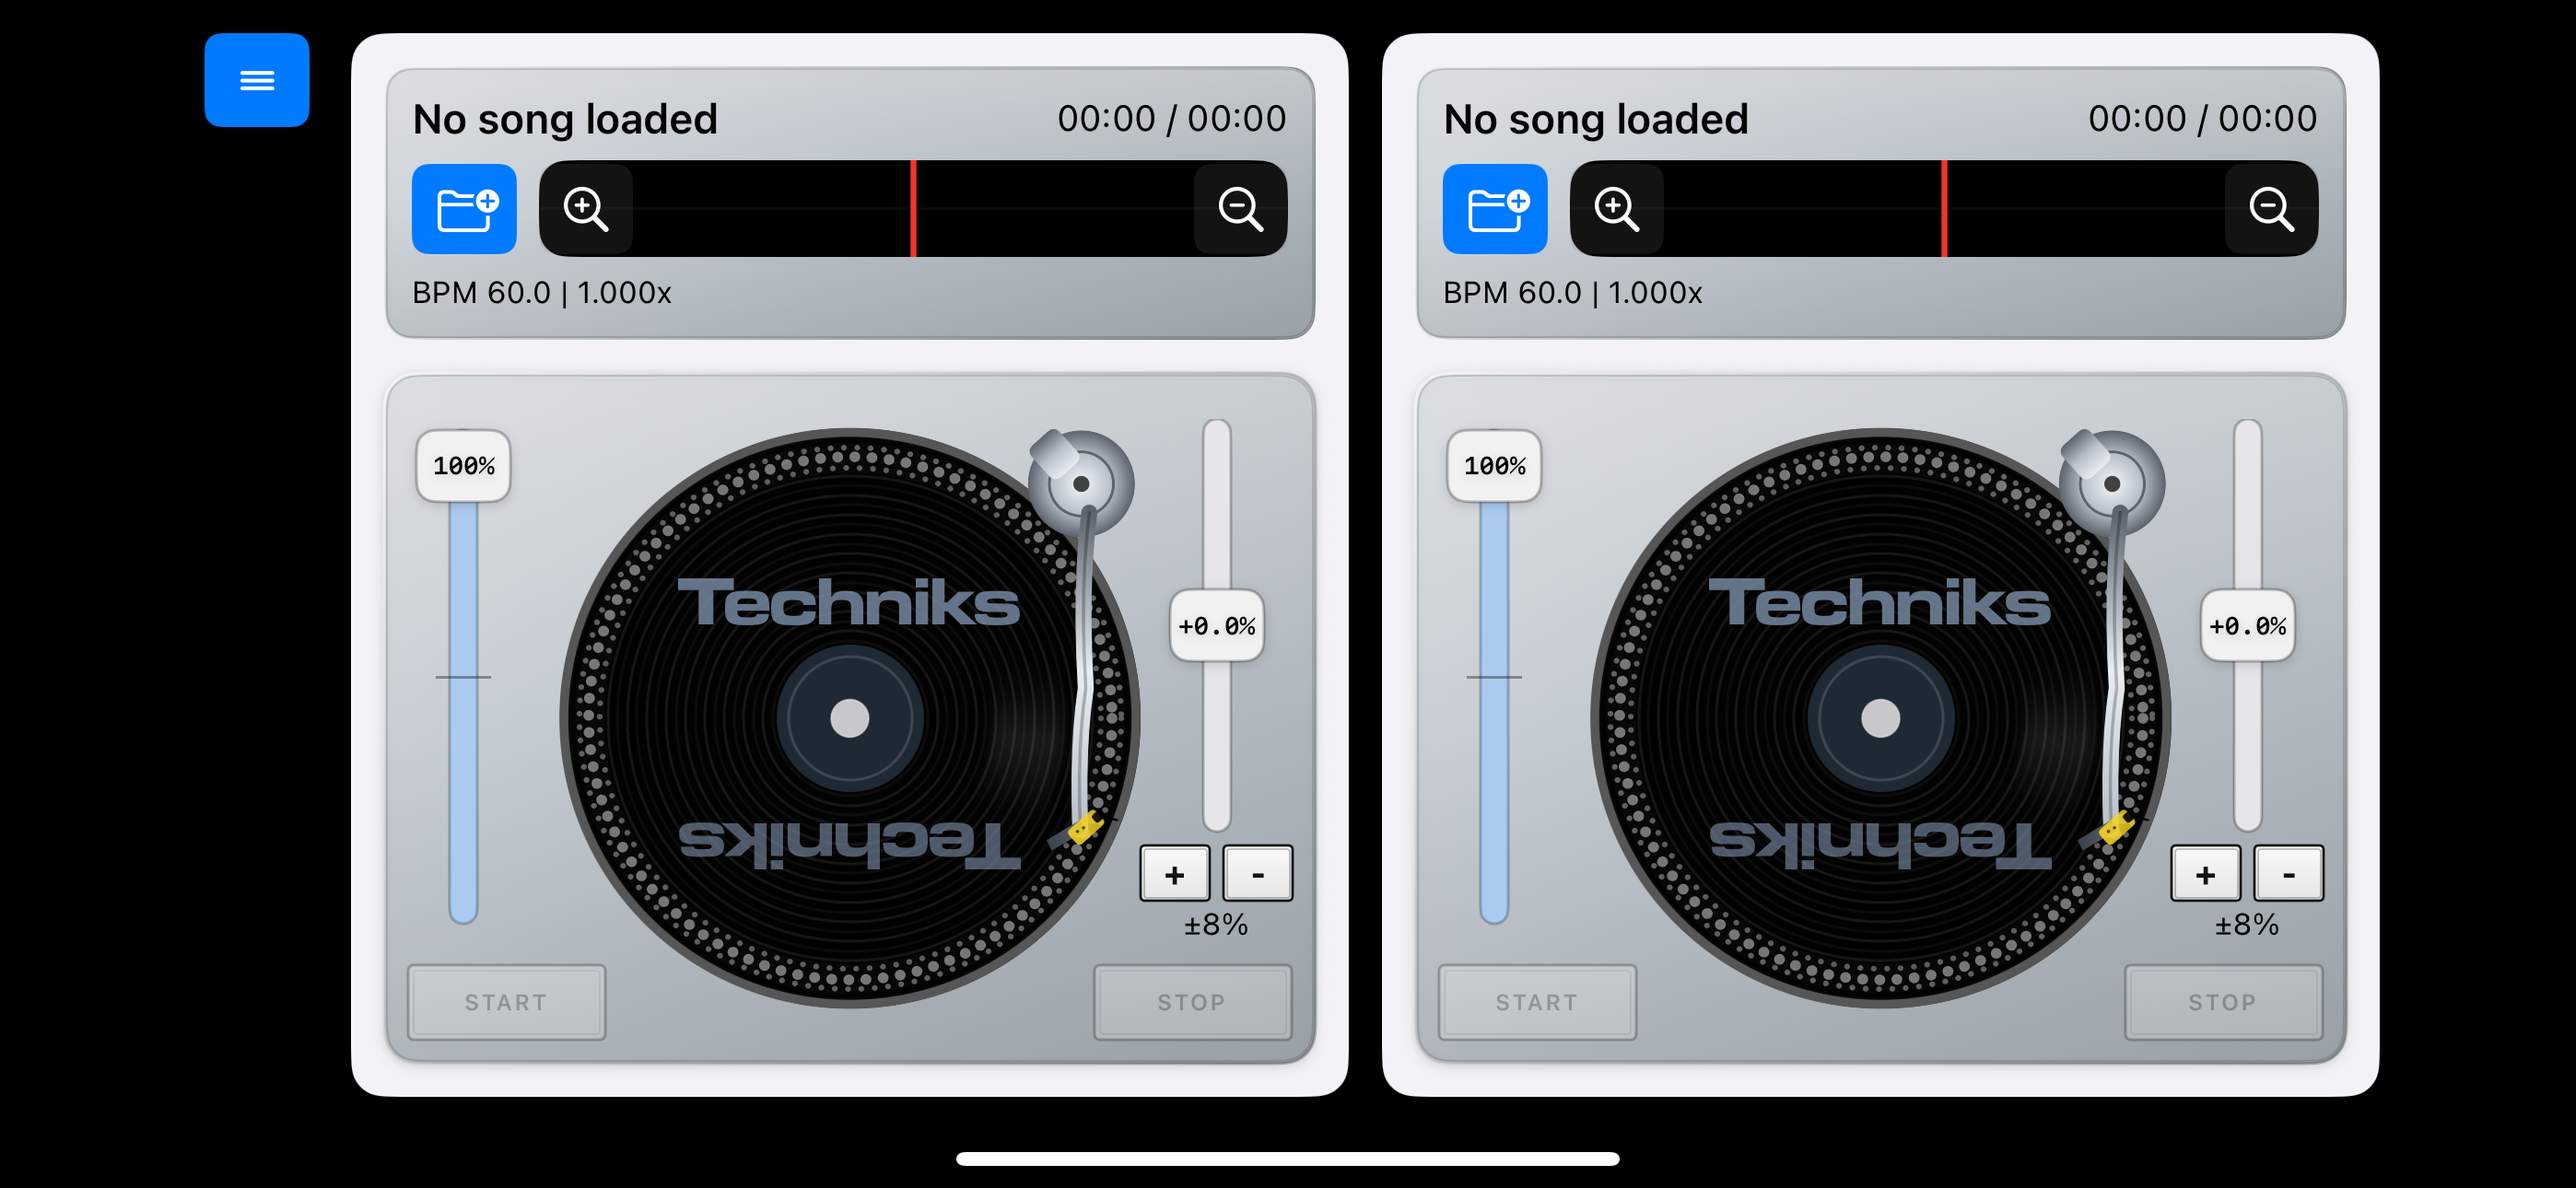
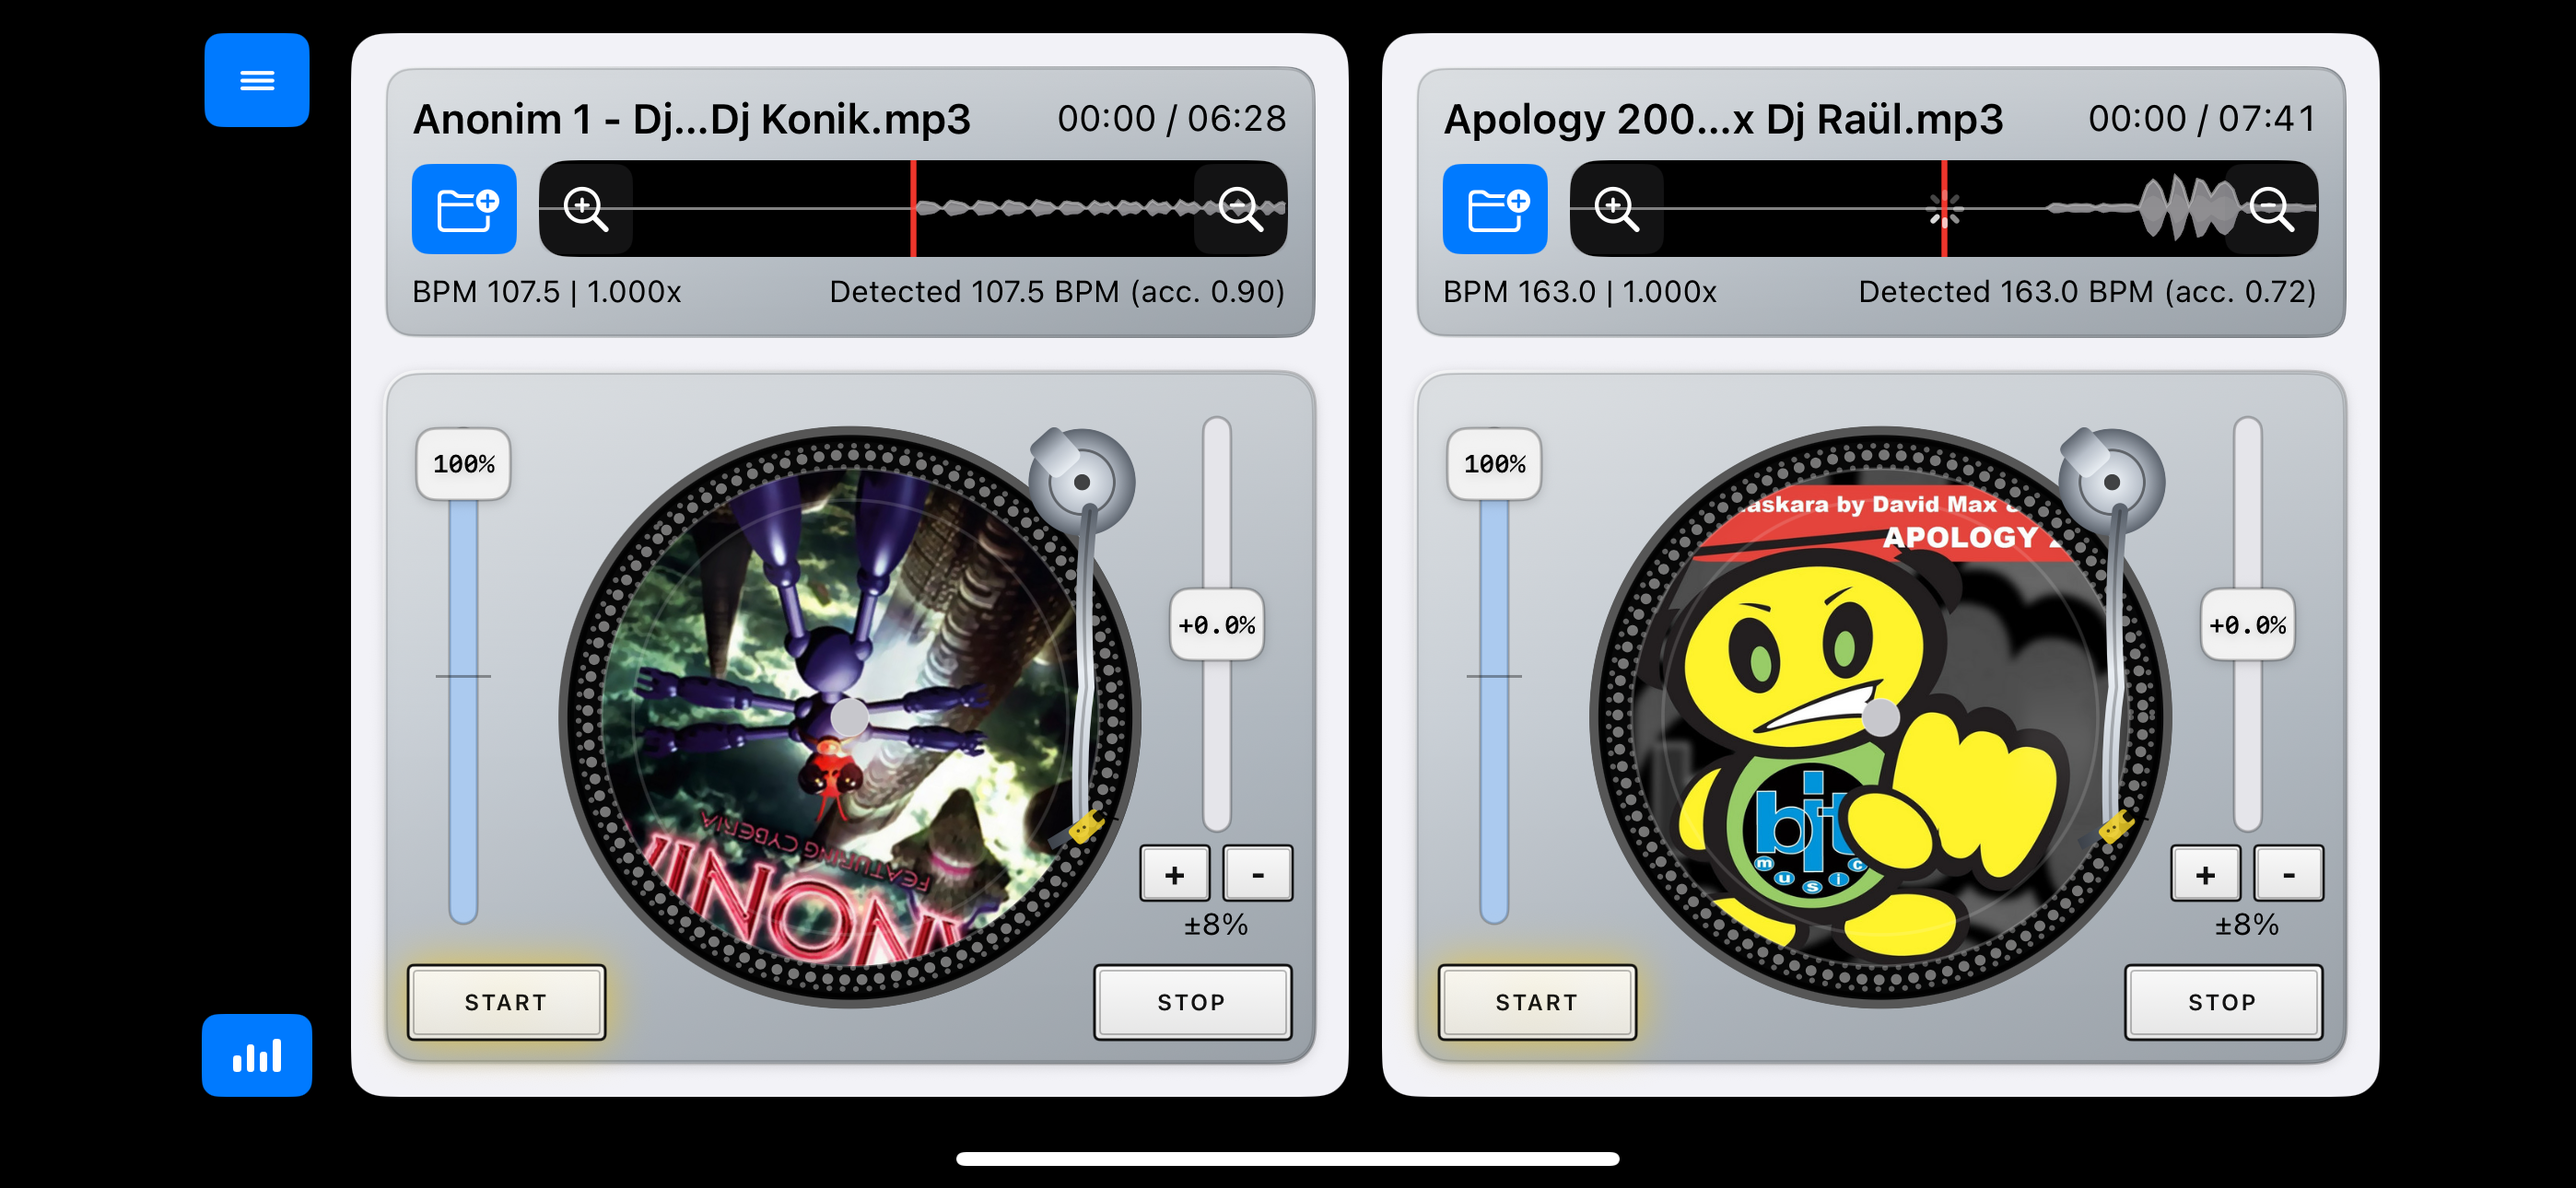
Updated UI screenshots

diff --git a/README.md b/README.md
@@ -14,9 +14,12 @@ It is intentionally **not a professional mixer app** and should be used for lear
 ![Two decks](Projects/MixerApp/Resources/Screenshot2.png) 
 
 **Loading tracks**
-![Loading track](Projects/MixerApp/Resources/Screenshot3.png) 
+![Loading track](Projects/MixerApp/Resources/Screenshot5.png) 
 
 **Master buttons**
+![Master buttons](Projects/MixerApp/Resources/Screenshot3.png)
+
+**Equalizer controls**
 ![Master buttons](Projects/MixerApp/Resources/Screenshot4.png)
 
 ## Functionalities
